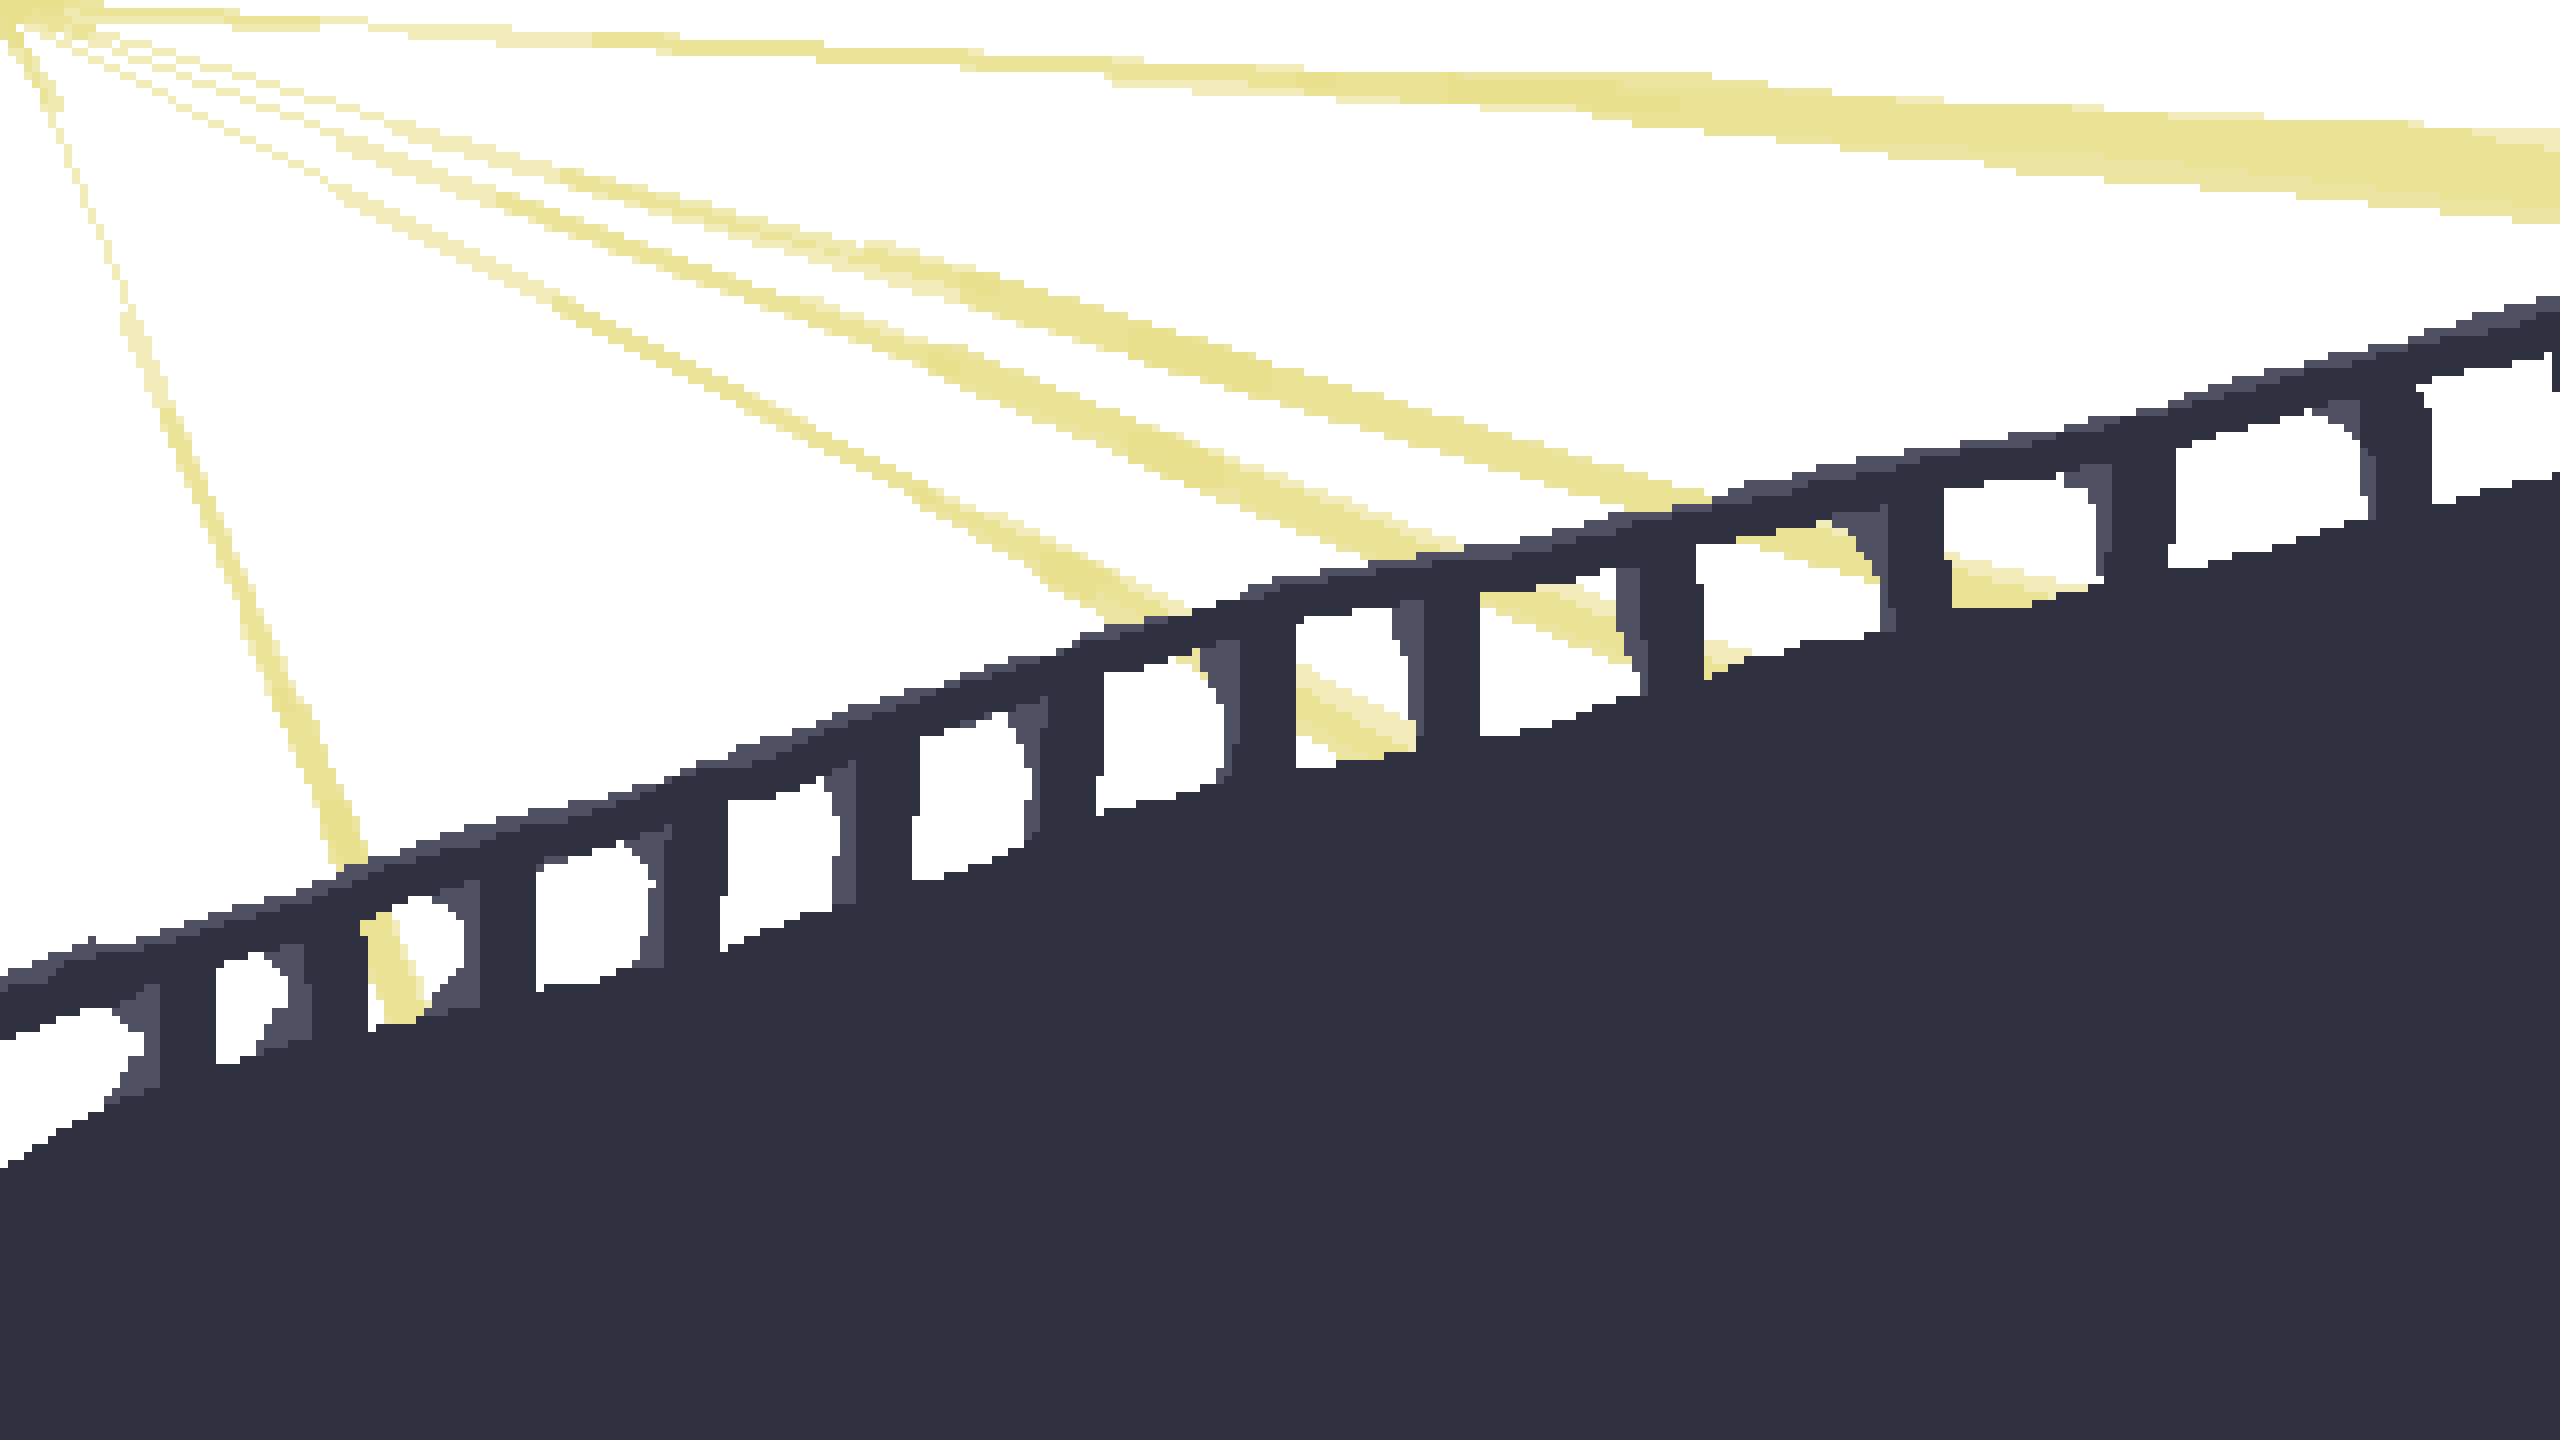
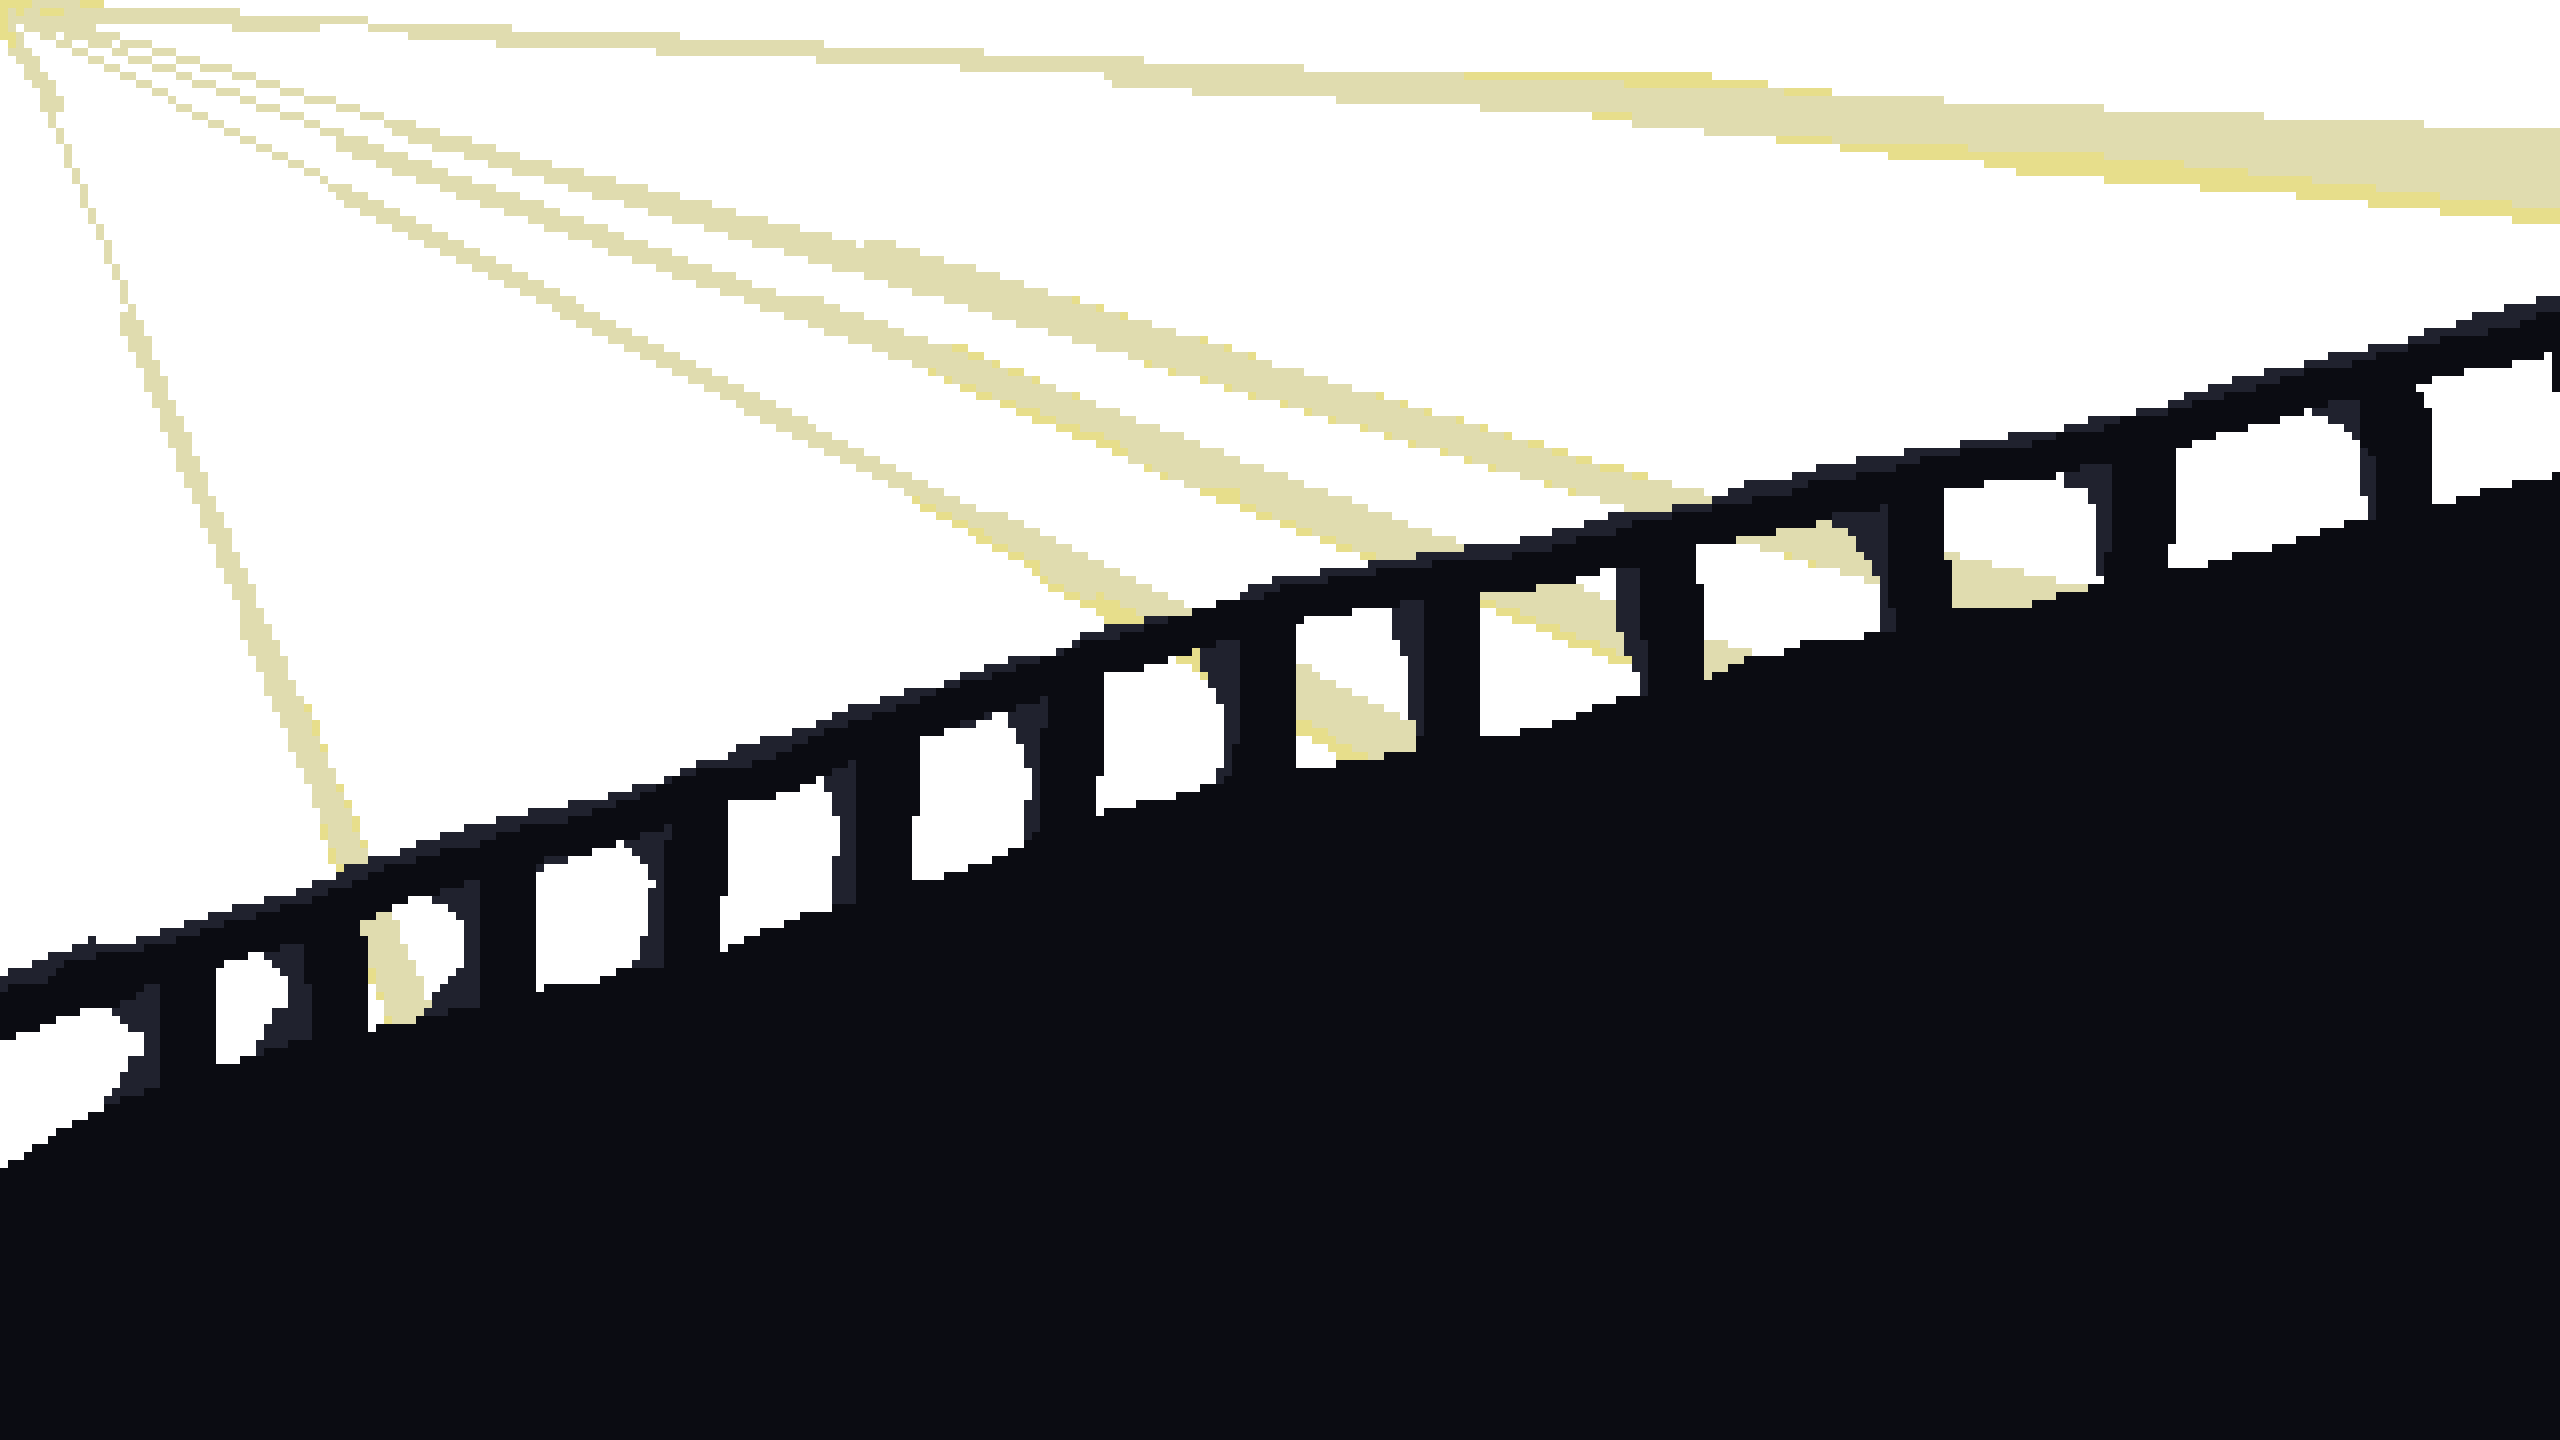
+ chap1 img + img selon chap + css

diff --git a/lesermentdelalune/src/views/ChapterView.vue b/lesermentdelalune/src/views/ChapterView.vue
@@ -1,6 +1,7 @@
 <template>
   <div class="chapitre-container">
-    <!-- <img class="bg-img" src="../assets/img/c1.png" /> -->
+    <!-- bg img depuis le json -->
+    <img class="bg-img" :src="storyStore.currentChapter?.image" v-if="storyStore.currentChapter?.image"/>
     <!-- Affichage du chapitre -->
     <div v-if="storyStore.currentChapter">
       <div class="chapitre-header">
@@ -21,7 +22,7 @@
         />
       </div>
       
-      <button class="btn-modal" @click="modal = true">☽
+      <button class="btn-modal" @click="modal = true">⚙
       </button>
       
       <!-- affiche si pas de choix ou choix sélectionné -->
@@ -340,14 +341,14 @@ body {
 }
 
 .bg-img {
-  position: fixed;
+  position: absolute;
   top: 0;
   left: 0;
   width: 100%;
   height: 100%;
-  object-fit: cover;
+  object-fit: fill;
   z-index: 0;
-  opacity: 1;
+  opacity: 0.5;
 }
 
 .chapitre-header {
@@ -359,8 +360,8 @@ body {
 
 .chapitre-header h1 {
   font-size: 4.1vw;
-  margin-bottom: -2vw;
-  color: #E7DF8B;
+  margin-bottom: -1.6vw;
+  color: #fff6b3;
   font-family: Mostean;
   font-weight: 400;
 }
@@ -387,7 +388,7 @@ body {
   right: 1.5vw;
   background: none;
   border: none;
-  font-size: 1vw;
+  font-size: 1.1vw;
   color: #F9F9F9;
   cursor: pointer;
   transition: 0.3s;
@@ -431,6 +432,7 @@ body {
   cursor: pointer;
   transition: all 0.3s ease;
   border: 0.1vh solid rgba(0, 0, 0, 0);
+  filter: drop-shadow(0px 0px 0.75rem rgb(0, 0, 0));
   z-index: 2;
     clip-path: polygon(
     0px calc(100% - 8px),

diff --git a/lesermentdelalune/src/views/HomeView.vue b/lesermentdelalune/src/views/HomeView.vue
@@ -82,10 +82,10 @@ h1 {
   text-align: center;
   color: #E7DF8B; 
   font-family: Mostean;
-  font-size: 5vw;
+  font-size: 7vw;
   font-weight: 400;
   grid-column: 1 / -1;
-  margin-bottom: 3vw;
+  margin-bottom: -3vw;
   z-index: 1;
 }
 
@@ -101,7 +101,7 @@ h1 {
 
 .btn {
   color: #E7DF8B;
-  font-size: 1vw;
+  font-size: 1.4vw;
   cursor: pointer;
   padding: 10px 30px;
   transition: color 0.3s;
@@ -150,7 +150,7 @@ a.btn {
   border-color: #303140;
   grid-column: 2;
   grid-row: 2;
-  margin-top: -3vw;
+  margin-top: -6vw;
   z-index: 1;
   clip-path: polygon( /* https://pixelcorners.lukeb.co.uk/?radius=8&multiplier=4 */
     0px calc(100% - 32px),
@@ -185,9 +185,8 @@ a.btn {
 }
 
 .info-text {
-  color: #E7DF8B;
-  font-size: 0.9vw;
-  line-height: 1.8;
+  color: #fff6b3;
+  font-size: 1.3vw;
   text-align: justify;
   white-space: pre-line;
   font-family: Gothic;

diff --git a/lesermentdelalune/src/components/NarrativeText.vue b/lesermentdelalune/src/components/NarrativeText.vue
@@ -37,7 +37,7 @@ export default {
   max-width: 75vw;
   min-height: 75vh;
   max-height: 76vh;
-  background-color: rgba(0, 0, 0, 0.4);
+  background-color: rgba(0, 0, 0, 0.55);
   display: flex;
   justify-content: center;
   align-items: center;
@@ -46,6 +46,7 @@ export default {
   border-width: 0.25vw;
   border-style: solid;
   border-color: #303140;
+  filter: drop-shadow(0px 0px 15rem rgb(47, 42, 56));
   clip-path: polygon( /* https://pixelcorners.lukeb.co.uk/?radius=8&multiplier=4 */
     0px calc(100% - 32px),
     8px calc(100% - 32px),
@@ -79,7 +80,7 @@ export default {
 }
 
 .narrative-text {
-  color: #E7DF8B;
+  color: #fff6b3;
   font-size: 1.2vw;
   line-height: 1.8;
   text-align: justify;

diff --git a/lesermentdelalune/src/views/EndingView.vue b/lesermentdelalune/src/views/EndingView.vue
@@ -100,7 +100,7 @@ body {
 .ending-header h1 {
   font-size: 4.1vw;
   margin-bottom: -2vw;
-  color: #E7DF8B;
+  color: #fff6b3;
   font-family: Mostean;
   font-weight: 400;
 }
@@ -117,13 +117,14 @@ body {
   flex-direction: column;
   justify-content: center;
   align-items: center;
+  width: 65vw;
   gap: 20px;
 }
   
 .fin-contenu p {
   font-size: 1.2rem;
   line-height: 1.8;
-  color: #E7DF8B;
+  color: #fff6b3;
   font-family: Gothic;
   text-align: justify;
   white-space: pre-line;
